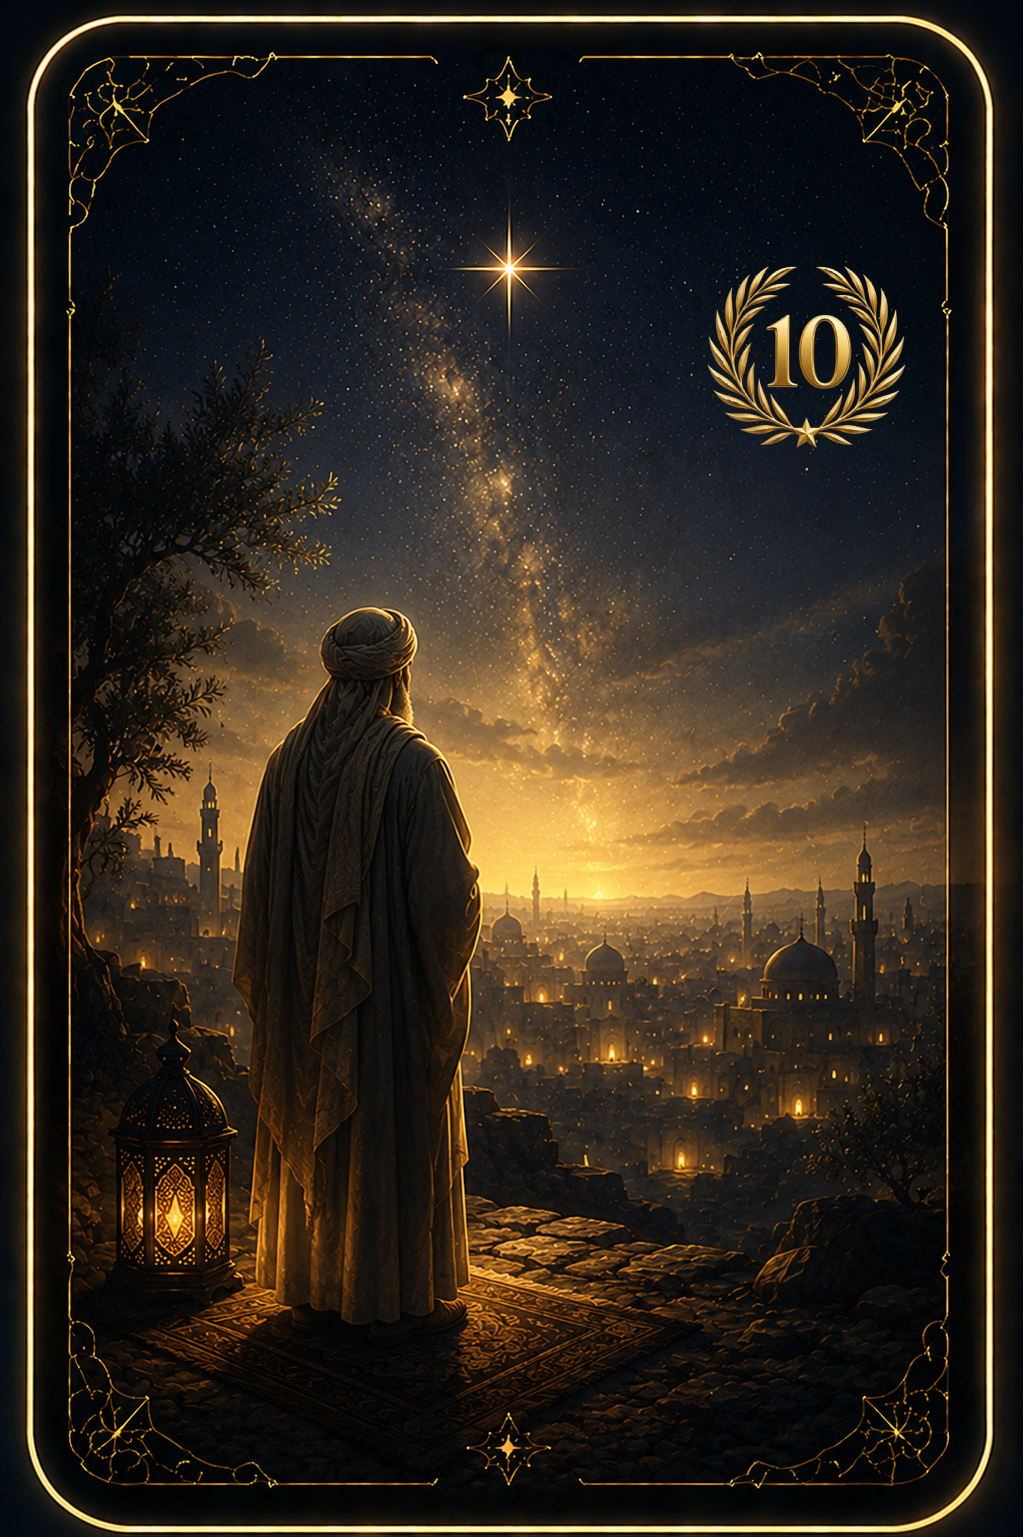
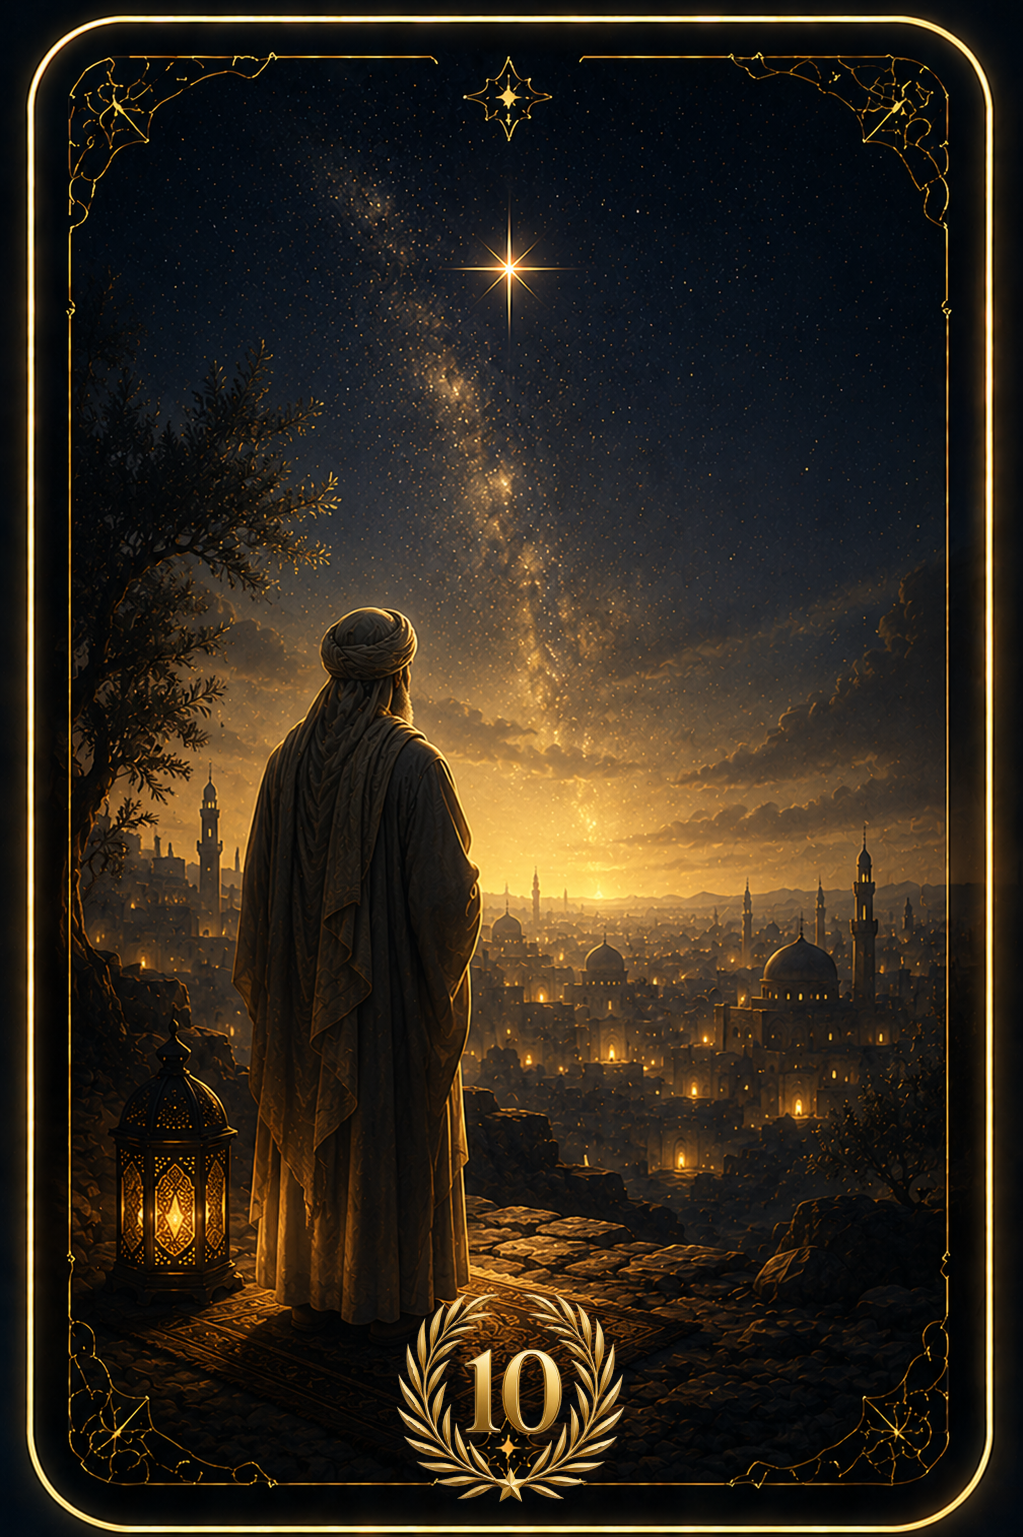
update traits for Ebu Huzeyfe card to enhance detail and clarity

Changed region(s): [[0.3939, 0.8432, 0.6061, 0.9993], [0.697, 0.1561, 0.8788, 0.3123]]

diff --git a/src/data/cards.js b/src/data/cards.js
@@ -93,7 +93,7 @@ export const cards = [
     {
         id: 5,
         title: "Ebu Huzeyfe",
-        traits: ["Korkusuz"],
+        traits: ["Korkusuz, Gözüpek"],
         revealName: "Ebu Huzeyfe bin Utbe (ra)",
         revealText: "Gözüpek ve korkusuz bir sahabi. Habeşistan'a giden ilk kafilede yer aldı.",
         source: "https://drive.google.com/file/d/17o1b8qKafrzWbyZqjLxX0z1xSUD4Sa4j/view",
